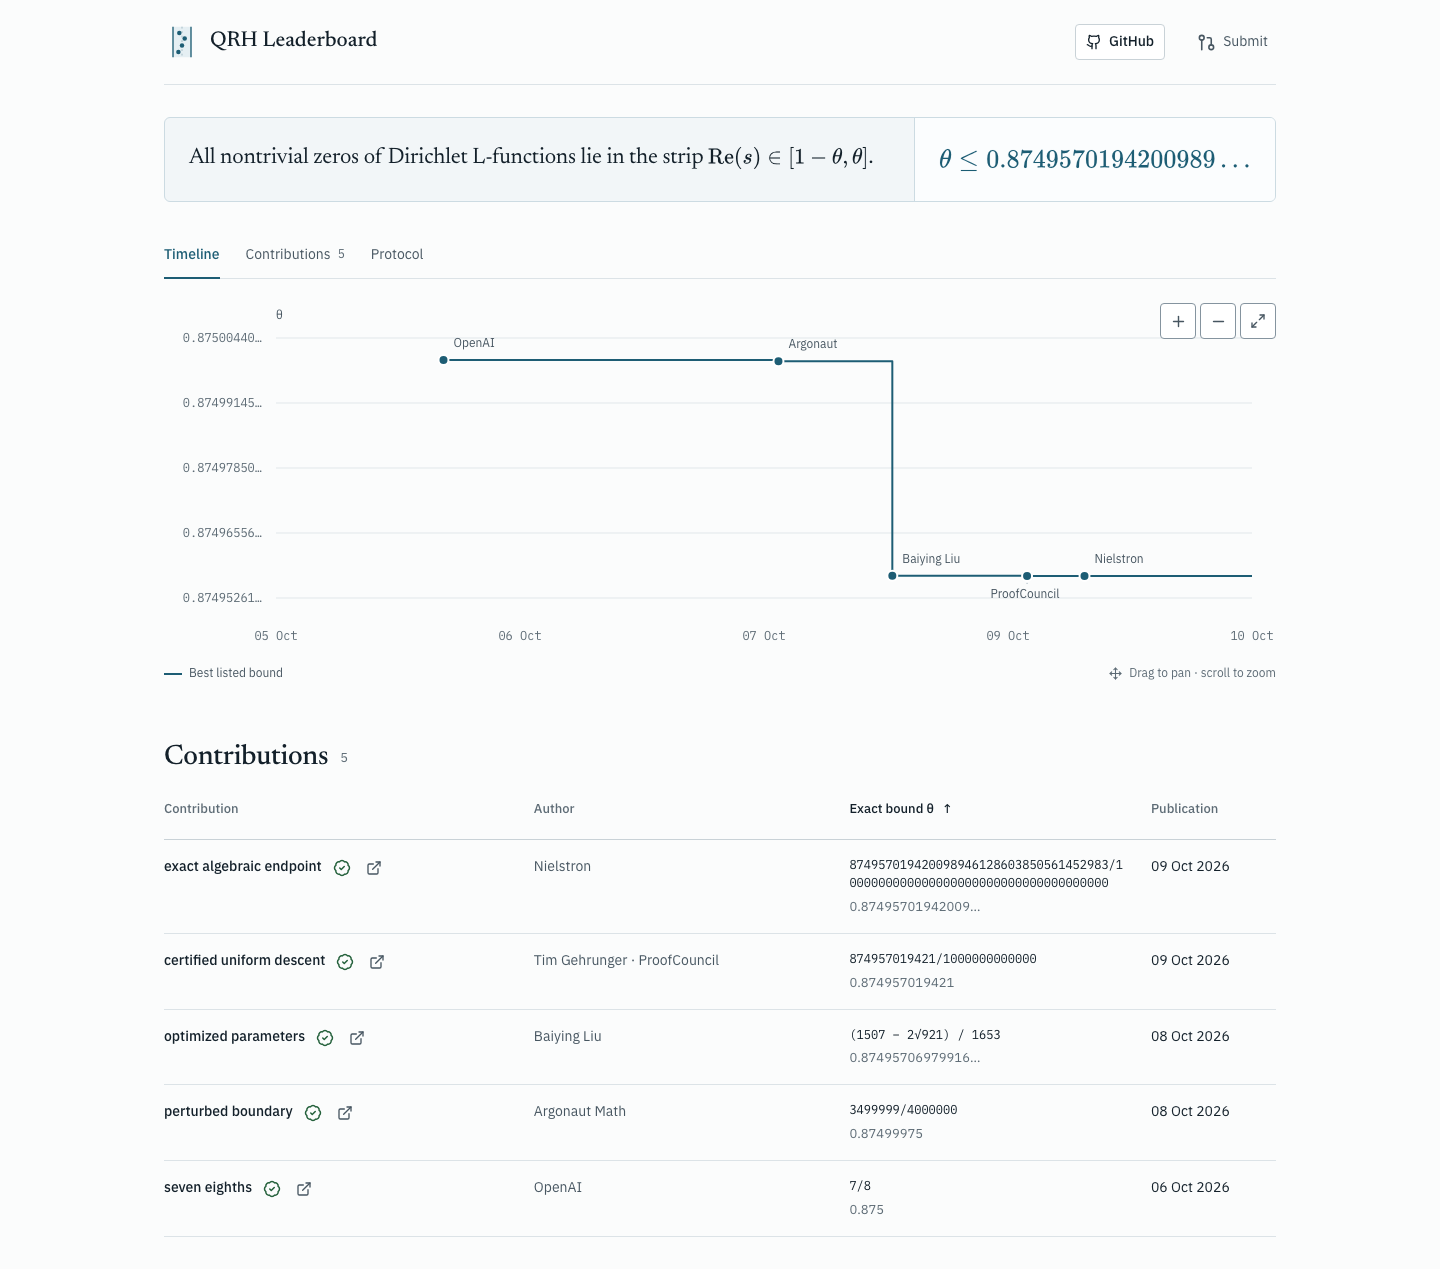
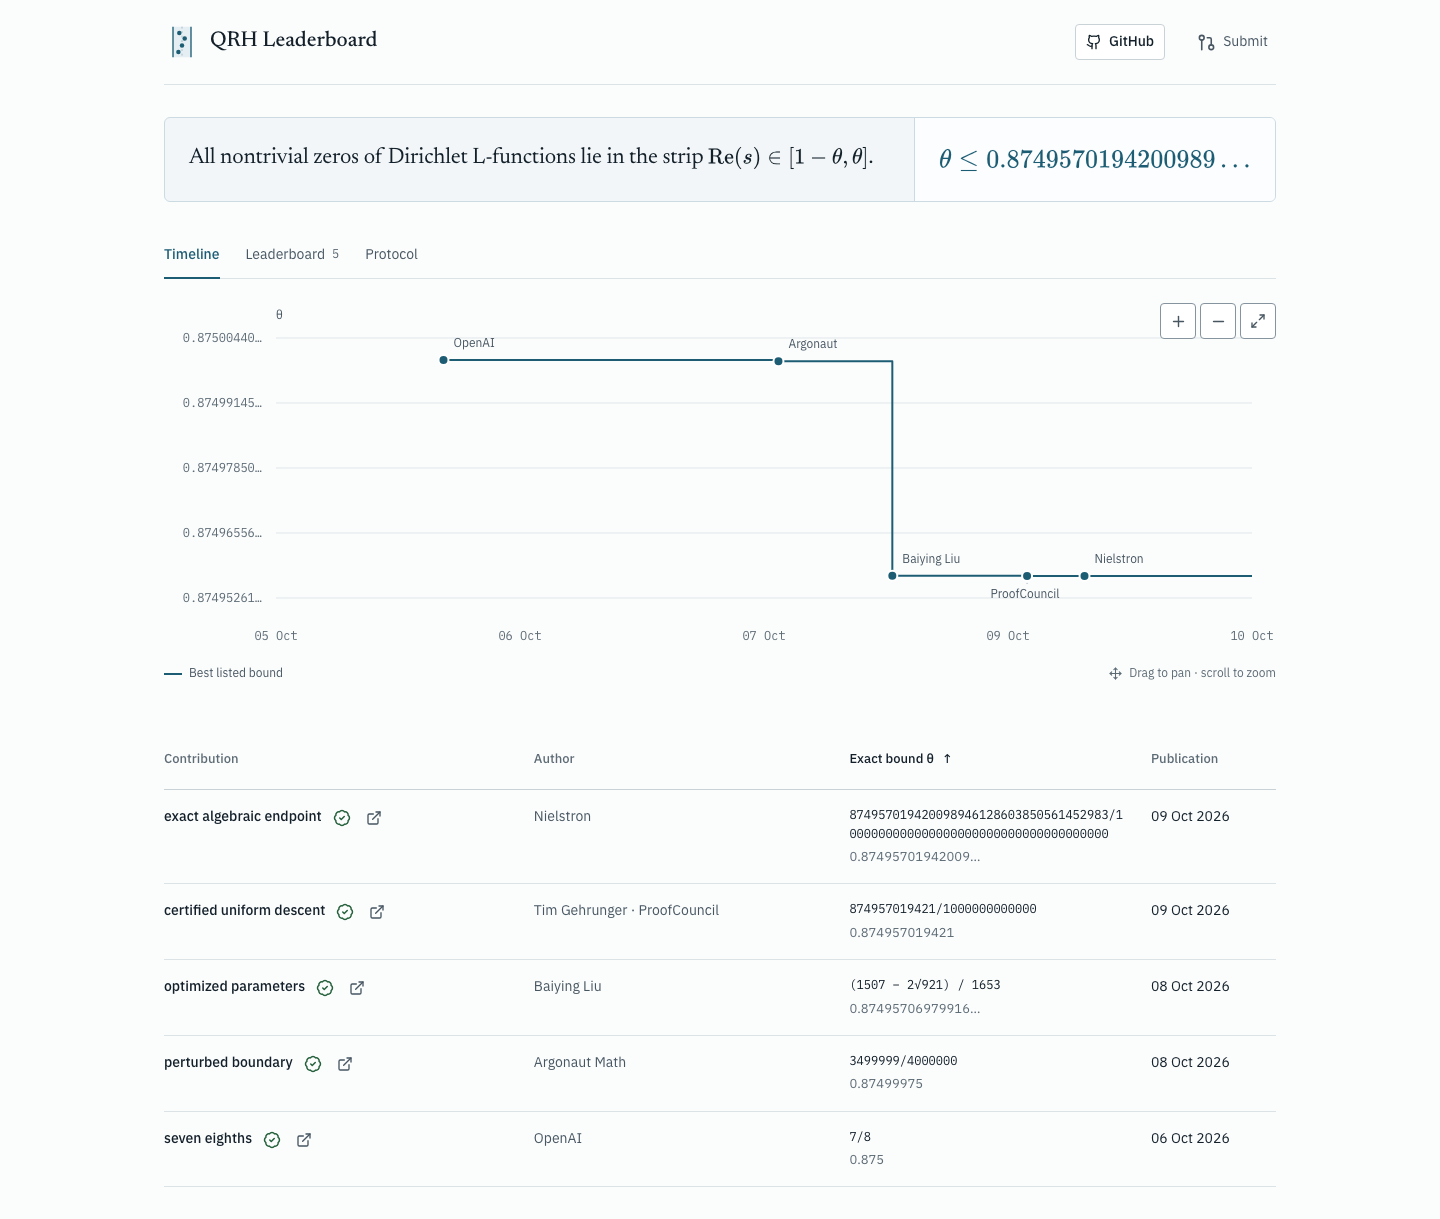
Rename leaderboard tab and remove redundant table heading

diff --git a/src/App.tsx b/src/App.tsx
@@ -270,14 +270,14 @@ export default function App() {
             </div>
           </section>
           <nav className="view-nav" aria-label="Research views">
-            {["Timeline", "Contributions", "Protocol"].map((name) => (
+            {["Timeline", "Leaderboard", "Protocol"].map((name) => (
               <button
                 key={name}
                 aria-current={tab === name ? "page" : undefined}
                 onClick={() => setTab(name)}
               >
                 {name}
-                {name === "Contributions" && <small>{all.length}</small>}
+                {name === "Leaderboard" && <small>{all.length}</small>}
               </button>
             ))}
           </nav>
@@ -304,14 +304,6 @@ export default function App() {
                     />
                   )}{" "}
                   <section className="panel contribution-table">
-                    <div className="panel-heading">
-                      <div>
-                        <h2>
-                          Contributions{" "}
-                          <span className="count">{records.length}</span>
-                        </h2>
-                      </div>
-                    </div>
                     <div className="table-scroll">
                       <table role="table">
                         <caption className="sr-only">
